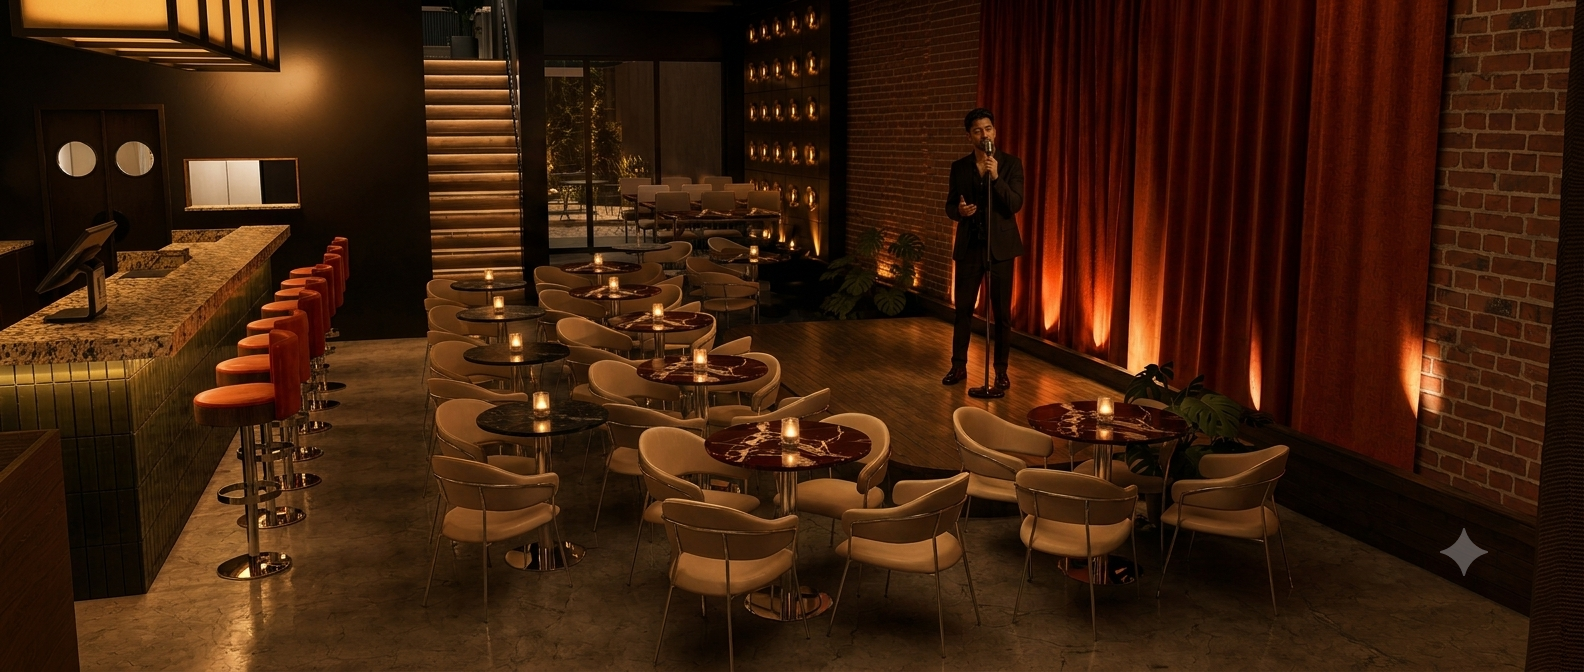
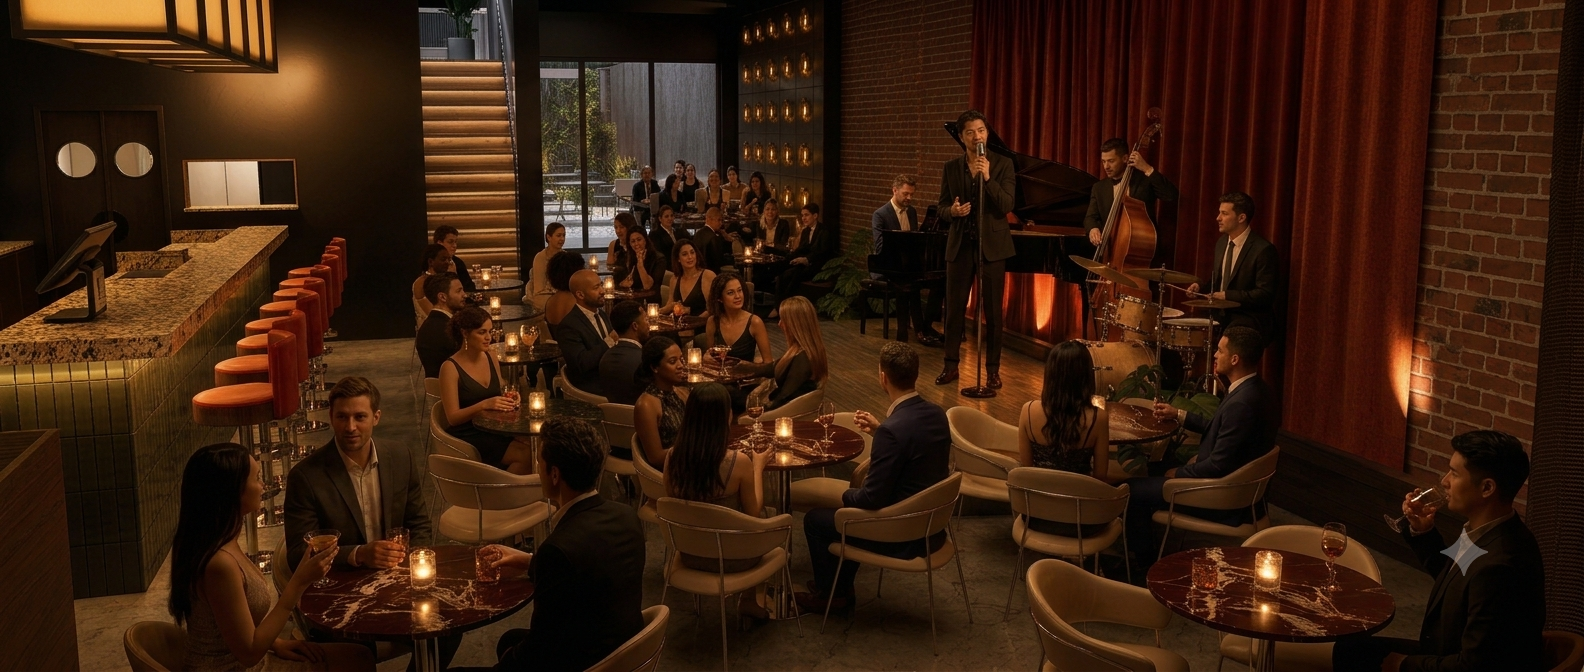
feat: update hero assets, revise branding copy, and cache-bust static resources

diff --git a/index.html b/index.html
@@ -16,7 +16,7 @@
     <link rel="stylesheet" href="https://use.typekit.net/lxq6acz.css">
 
     <!-- Custom CSS -->
-    <link rel="stylesheet" href="styles.css?v=5">
+    <link rel="stylesheet" href="styles.css?v=7">
 </head>
 <body>
 
@@ -108,7 +108,7 @@
             <div class="split-banner-container">
                 <!-- Left Side: De Día -->
                 <div class="split-side split-left">
-                    <div class="split-bg" style="background-image: url('assets/split_music.png?v=1');"></div>
+                    <div class="split-bg" style="background-image: url('assets/split_day.png?v=1');"></div>
                 </div>
 
                 <!-- Right Side: De Noche -->
@@ -122,7 +122,7 @@
                         <span class="badge-text-top">UN LUGAR.</span>
                         <span class="badge-text-accent">DOS ATMÓSFERAS.</span>
                         <div class="badge-line"></div>
-                        <span class="badge-text-bottom">UNA SOLA<br>IDENTIDAD.</span>
+                        <span class="badge-text-bottom">UNA SOLA<br><strong>IDENTIDAD.</strong></span>
                     </div>
                 </div>
 
@@ -404,7 +404,7 @@
                     <div class="exp-panel-body">
                         <span class="exp-panel-num">03</span>
                         <h3 class="exp-panel-title">Música y cultura</h3>
-                        <p class="exp-panel-desc">Jazz, blues, vinilos, libros y&nbsp;música en&nbsp;vivo. La música como corazón, la cultura como excusa para quedarse.</p>
+                        <p class="exp-panel-desc">Jazz, blues, vinilos, libros y&nbsp;música en&nbsp;vivo. Música, cultura y&nbsp;un lugar para quedarse.</p>
                     </div>
                 </div>
 

diff --git a/styles.css b/styles.css
@@ -744,7 +744,7 @@ section {
     left: 0;
     width: 100%;
     height: 100%;
-    background-image: url('assets/hero_chatgpt.png?v=4');
+    background-image: url('assets/hero_chatgpt.png?v=7');
     background-size: 130%;
     background-position: center 20%;
     background-repeat: no-repeat;
